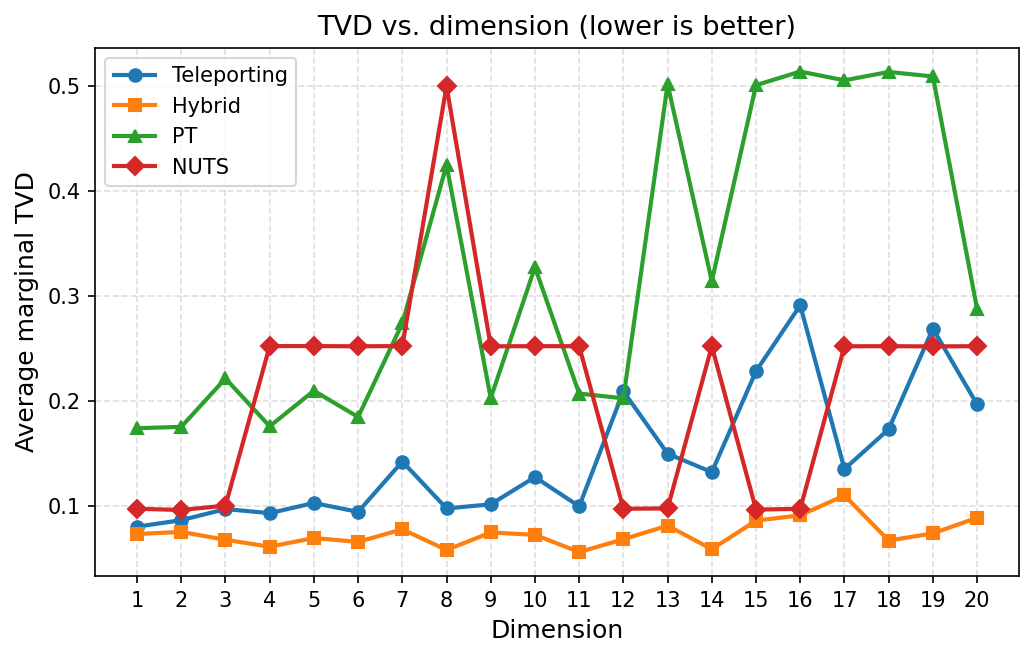
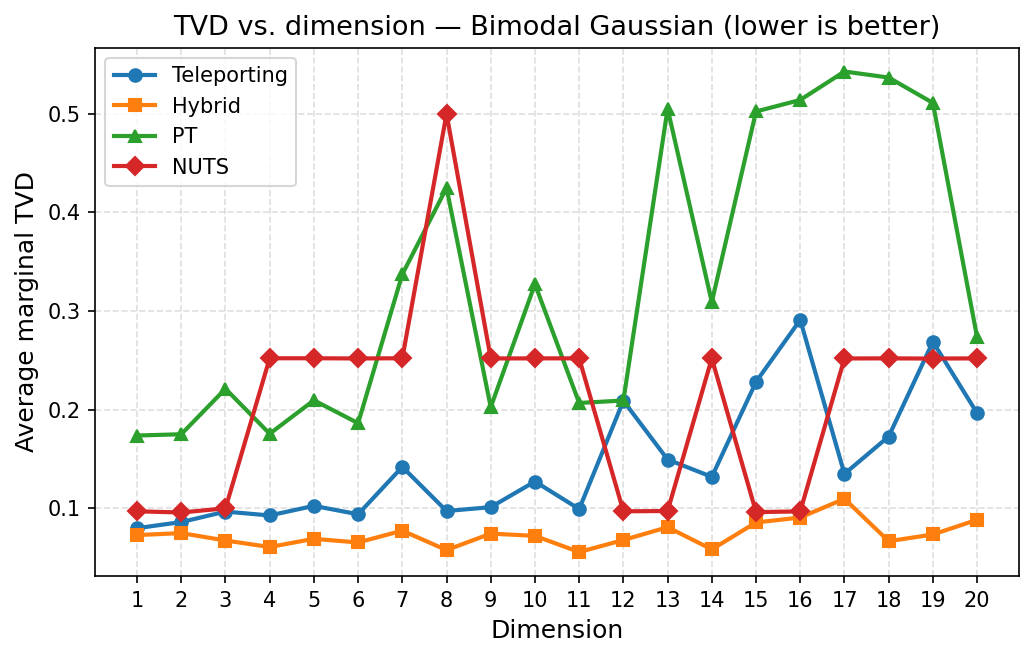
expo scaling

diff --git a/scripts/exponential_n_scaling.py b/scripts/exponential_n_scaling.py
@@ -1,0 +1,227 @@
+"""
+exponential_n_scaling.py
+========================
+Dimension-scaling experiment where the number of walkers N = 2^d grows
+exponentially with dimension.
+
+Theory (Skene et al. 2023): teleportation fires when walkers are close
+relative to the proposal width, which requires N exponential in d.  When
+walkers are too sparse (constant N), the deletion weights collapse to i=j,
+the partition functions cancel, and the scheme reduces to N independent
+chains — graceful degeneration, but no interaction bonus.  With N = 2^d,
+the interaction is maintained and teleportation fires meaningfully across
+all dimensions.
+
+Compares: Teleporting MCMC, Hybrid Teleporting-NUTS, Vanilla NUTS (4 chains).
+Target:   bimodal Gaussian  ½N(-5,1) + ½N(5,1)  per coordinate.
+"""
+import csv
+import os
+import sys
+
+import numpy as np
+from scipy.stats import norm as _norm
+
+ROOT = os.path.dirname(os.path.dirname(os.path.abspath(__file__)))
+if ROOT not in sys.path:
+    sys.path.insert(0, ROOT)
+
+os.environ.setdefault("MPLCONFIGDIR", os.path.join("/tmp", "matplotlib"))
+os.environ.setdefault("PYTENSOR_FLAGS", "base_compiledir=/tmp/pytensor")
+
+from samplers.hybrid_teleporting_nuts import HybridTeleportingNUTS
+from samplers.teleporting_mcmc import (
+    TeleportingMCMC,
+    gaussian_q_density,
+    gaussian_q_sample,
+)
+
+# ── experiment settings ────────────────────────────────────────────────────────
+# N(d) = 2^d walkers for Teleporting / Hybrid; 4 fixed chains for NUTS.
+# Cost per step is O(N²), so the series d=1..7 (N=2..128) is tractable.
+DIMS            = [1, 2, 3, 4, 5, 6, 7]
+NUM_ITER        = 1000
+WARMUP_FRACTION = 0.25
+PROPOSAL_SIGMA  = 1.5
+N_NUTS_CHAINS   = 4
+SEED            = 221
+RESULT_DIR      = os.path.join(ROOT, "results", "dimension_scaling")
+
+
+def n_walkers(d):
+    return 2 ** d
+
+
+# ── target ────────────────────────────────────────────────────────────────────
+
+def make_bimodal_target(dim):
+    c = (2.0 * np.pi) ** (-dim / 2.0)
+    L, R = np.full(dim, -5.0), np.full(dim, 5.0)
+    def pi_fn(x):
+        x = np.asarray(x, dtype=float).ravel()
+        return float(0.5 * c * np.exp(-0.5 * np.sum((x - L) ** 2)) +
+                     0.5 * c * np.exp(-0.5 * np.sum((x - R) ** 2)))
+    return pi_fn
+
+
+def true_marginal(grid):
+    return 0.5 * _norm.pdf(grid, -5, 1) + 0.5 * _norm.pdf(grid, 5, 1)
+
+
+def make_initial_walkers(dim, N, rng):
+    modes = rng.choice([-5.0, 5.0], size=N)
+    return rng.normal(loc=modes[:, np.newaxis], scale=1.0, size=(N, dim))
+
+
+# ── TVD ───────────────────────────────────────────────────────────────────────
+
+def average_marginal_tvd(chains, n_grid=500):
+    from scipy.stats import gaussian_kde
+    chains = np.asarray(chains, dtype=float)
+    if chains.ndim == 2:
+        chains = chains[:, :, np.newaxis]
+    grid   = np.linspace(-10.0, 10.0, n_grid)
+    dx     = grid[1] - grid[0]
+    p_true = true_marginal(grid)
+    tvds   = []
+    for k in range(chains.shape[2]):
+        samples = chains[:, :, k].ravel()
+        if np.std(samples) < 1e-10:
+            tvds.append(0.5)
+            continue
+        p_kde = gaussian_kde(samples, bw_method="scott")(grid)
+        tvds.append(0.5 * np.sum(np.abs(p_true - p_kde)) * dx)
+    return float(np.mean(tvds))
+
+
+# ── samplers ──────────────────────────────────────────────────────────────────
+
+def run_vanilla_nuts(dim, num_iter, warmup):
+    try:
+        import pymc as pm
+        import pytensor.tensor as pt
+    except Exception as exc:
+        print(f"    skipped: {exc}")
+        return None
+
+    with pm.Model():
+        def logp(value):
+            log_norm  = -0.5 * dim * np.log(2.0 * np.pi)
+            log_left  = log_norm - 0.5 * pt.sum((value + 5.0) ** 2)
+            log_right = log_norm - 0.5 * pt.sum((value - 5.0) ** 2)
+            return pt.logaddexp(np.log(0.5) + log_left, np.log(0.5) + log_right)
+
+        pm.DensityDist("x", logp=logp, shape=dim, initval=np.zeros(dim))
+        init_rng = np.random.default_rng(SEED + dim)
+        initvals = [{"x": init_rng.normal(0.0, 6.0, size=dim)}
+                    for _ in range(N_NUTS_CHAINS)]
+        trace = pm.sample(
+            draws=num_iter, tune=warmup,
+            chains=N_NUTS_CHAINS, cores=1,
+            initvals=initvals, random_seed=SEED,
+            progressbar=False, compute_convergence_checks=False,
+        )
+
+    samples = trace.posterior["x"].values  # (chains, draws, dim)
+    if samples.ndim == 2:
+        samples = samples[:, :, np.newaxis]
+    return samples
+
+
+def run_dimension(dim, rng):
+    N       = n_walkers(dim)
+    warmup  = int(NUM_ITER * WARMUP_FRACTION)
+    pi_fn   = make_bimodal_target(dim)
+    x0      = make_initial_walkers(dim, N, rng)
+    q_s     = lambda x, r: gaussian_q_sample(x, PROPOSAL_SIGMA, r)
+    q_d     = lambda x, m: gaussian_q_density(x, m, PROPOSAL_SIGMA)
+
+    print(f"\n  d={dim}  N={N} walkers")
+    row = {"dimension": dim, "n_walkers": N}
+
+    print("  [Teleporting MCMC]")
+    t_sampler = TeleportingMCMC(pi_fn, q_s, q_d, rng=rng)
+    t_chains  = (t_sampler.run(x0, NUM_ITER)["samples"]
+                 .transpose(1, 0, 2)[:, warmup:, :])
+    row["tvd_teleporting"] = round(average_marginal_tvd(t_chains), 4)
+    print(f"    TVD = {row['tvd_teleporting']:.4f}")
+
+    print("  [Hybrid Teleporting-NUTS]")
+    h_sampler = HybridTeleportingNUTS(
+        pi_fn=pi_fn, q_sample_fn=q_s, q_density_fn=q_d,
+        init_step_size=PROPOSAL_SIGMA / 5.0, max_tree_depth=5,
+        target_accept=0.65, rng=rng,
+    )
+    h_chains = (h_sampler.run(x0, NUM_ITER, num_warmup=warmup)["samples"]
+                .transpose(1, 0, 2)[:, warmup:, :])
+    row["tvd_hybrid"] = round(average_marginal_tvd(h_chains), 4)
+    print(f"    TVD = {row['tvd_hybrid']:.4f}")
+
+    print(f"  [Vanilla NUTS ({N_NUTS_CHAINS} chains)]")
+    v_chains = run_vanilla_nuts(dim, NUM_ITER, warmup)
+    if v_chains is None:
+        row["tvd_vanilla"] = float("nan")
+    else:
+        row["tvd_vanilla"] = round(average_marginal_tvd(v_chains), 4)
+        print(f"    TVD = {row['tvd_vanilla']:.4f}")
+
+    return row
+
+
+# ── output ────────────────────────────────────────────────────────────────────
+
+def save_results(rows):
+    import matplotlib.pyplot as plt
+
+    os.makedirs(RESULT_DIR, exist_ok=True)
+
+    csv_path = os.path.join(RESULT_DIR, "tvd_exponential_n.csv")
+    with open(csv_path, "w", newline="") as f:
+        w = csv.DictWriter(f, fieldnames=list(rows[0].keys()))
+        w.writeheader()
+        w.writerows(rows)
+    print(f"\nSaved {csv_path}")
+
+    dims = [r["dimension"] for r in rows]
+    ns   = [r["n_walkers"]  for r in rows]
+
+    methods = ["teleporting", "hybrid",   "vanilla"]
+    labels  = ["Teleporting (N=2ᵈ)", "Hybrid (N=2ᵈ)", f"NUTS ({N_NUTS_CHAINS} chains)"]
+    colors  = ["#1f77b4",  "#ff7f0e",  "#d62728"]
+    markers = ["o",        "s",        "D"]
+
+    fig, ax = plt.subplots(figsize=(8, 5))
+    for method, label, color, marker in zip(methods, labels, colors, markers):
+        tvds = [r[f"tvd_{method}"] for r in rows]
+        ax.plot(dims, tvds, label=label, color=color, marker=marker,
+                linewidth=2, markersize=7)
+
+    ax.set_xticks(dims)
+    ax.set_xticklabels([f"d={d}\nN={n}" for d, n in zip(dims, ns)], fontsize=9)
+    ax.set_xlabel("Dimension  (N = 2ᵈ walkers for Teleporting / Hybrid)", fontsize=11)
+    ax.set_ylabel("Average marginal TVD", fontsize=11)
+    ax.set_title("TVD vs. dimension with exponential walker count  N = 2ᵈ\n"
+                 "(lower is better)", fontsize=12)
+    ax.legend(fontsize=10)
+    ax.grid(True, linestyle="--", alpha=0.4)
+    fig.tight_layout()
+
+    png_path = os.path.join(RESULT_DIR, "tvd_exponential_n.png")
+    fig.savefig(png_path, dpi=150, bbox_inches="tight")
+    plt.close(fig)
+    print(f"Saved {png_path}")
+
+
+def main():
+    rng = np.random.default_rng(SEED)
+    print(f"Dimensions:     {DIMS}")
+    print(f"N(d) = 2^d:     {[n_walkers(d) for d in DIMS]}")
+    print(f"Iterations:     {NUM_ITER}  (warmup: {int(NUM_ITER * WARMUP_FRACTION)})")
+    print(f"NUTS chains:    {N_NUTS_CHAINS}  (fixed)\n")
+
+    rows = [run_dimension(dim, rng) for dim in DIMS]
+    save_results(rows)
+
+
+if __name__ == "__main__":
+    main()
